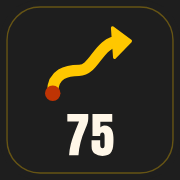
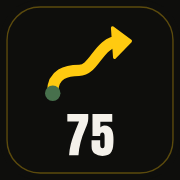
Match the coach site colors: ink, volt yellow, bone, forest green (#15)
* Color option: coach-match palette from coachsalimheyaime.com (preview only, not for merge)

* Coach-match: forest green coaching band

* Regenerate favicon and app icon PNGs in the coach-match palette

---------

Changed region(s): [[0.25, 0.4722, 0.3611, 0.5833]]

diff --git a/styles.css b/styles.css
@@ -1,11 +1,11 @@
 :root {
-  --yellow: #ffc700;
-  --charcoal: #1e1e1e;
-  --rust: #bf3404;
-  --cream: #fff7e8;
-  --paper: #fffdf8;
-  --muted: #5e584c;
-  --line: #e6dcc0;
+  --yellow: #FFCA10;
+  --charcoal: #0E0E0C;
+  --rust: #1C6924;
+  --cream: #F4F1EA;
+  --paper: #FBFAF6;
+  --muted: #4A4943;
+  --line: #DDD7C9;
   --max: 1100px;
 }
 
@@ -130,7 +130,7 @@ a {
   font-weight: 700;
   text-transform: uppercase;
   letter-spacing: 0.12em;
-  color: rgba(255, 253, 248, 0.75);
+  color: rgba(251, 250, 246, 0.75);
   margin: 0;
 }
 
@@ -166,7 +166,7 @@ a {
   text-transform: uppercase;
   letter-spacing: 0.1em;
   text-decoration: none;
-  color: rgba(255, 253, 248, 0.85);
+  color: rgba(251, 250, 246, 0.85);
   padding: 0.45rem 0.5rem;
   border-radius: 8px;
 }
@@ -296,7 +296,7 @@ a.hub-tile:focus-visible {
 
 .hub-tile-desc {
   font-size: 0.9rem;
-  color: rgba(255, 253, 248, 0.78);
+  color: rgba(251, 250, 246, 0.78);
   margin: 0;
   flex-grow: 1;
 }
@@ -428,7 +428,7 @@ section {
 }
 
 .store-teaser p {
-  color: rgba(255, 253, 248, 0.88);
+  color: rgba(251, 250, 246, 0.88);
   margin: 0 0 1.5rem;
 }
 
@@ -788,7 +788,7 @@ section {
 .program-card--featured {
   grid-column: 1 / -1;
   border-left: 5px solid var(--yellow);
-  box-shadow: 0 4px 14px rgba(30, 30, 30, 0.06);
+  box-shadow: 0 4px 14px rgba(14, 14, 12, 0.06);
   gap: 0;
   height: auto;
 }
@@ -994,7 +994,7 @@ section {
 
 .program-card.featured {
   border-color: var(--charcoal);
-  box-shadow: 0 12px 32px rgba(30, 30, 30, 0.12);
+  box-shadow: 0 12px 32px rgba(14, 14, 12, 0.12);
 }
 
 .program-card h3 {
@@ -1103,7 +1103,7 @@ section {
 
 .steps p {
   margin: 0;
-  color: rgba(255, 253, 248, 0.85);
+  color: rgba(251, 250, 246, 0.85);
 }
 
 .about {
@@ -1192,7 +1192,7 @@ section {
 
 .footer {
   background: var(--charcoal);
-  color: #ddd;
+  color: #DDD7C9;
   text-align: center;
   font-size: 0.9rem;
   padding: 1.75rem 0;
@@ -1529,13 +1529,13 @@ section {
 /* ==========================================================================
    2026-11 refresh: shared header and footer for every page, plus the
    homepage hub layout (body.home-v2, hx-* classes). Brand base: Anton + Lato,
-   yellow #ffc700, charcoal #1e1e1e, rust #bf3404, cream #fff7e8.
+   Palette option m (Coach Match): accent #FFCA10, dark #0E0E0C, accent-2 #1C6924, cream #F4F1EA.
    ========================================================================== */
 
 :root {
-  --ink: #141414;
-  --night: #1b1b1b;
-  --yellow-soft: #ffe27a;
+  --ink: #0E0E0C;
+  --night: #181816;
+  --yellow-soft: #FFD740;
 }
 
 /* Shared header: sticky, wraps nav under the brand on small screens */
@@ -1544,7 +1544,7 @@ section {
   top: 0;
   z-index: 50;
   padding: 0.7rem 0;
-  background: rgba(20, 20, 20, 0.97);
+  background: rgba(14, 14, 12, 0.97);
 }
 
 .site-header .wrap {
@@ -1648,8 +1648,8 @@ section {
   position: relative;
   overflow: hidden;
   background:
-    radial-gradient(circle at 85% 20%, rgba(255, 199, 0, 0.16), transparent 45%),
-    radial-gradient(circle at 10% 100%, rgba(191, 52, 4, 0.28), transparent 40%),
+    radial-gradient(circle at 85% 20%, rgba(255, 202, 16, 0.16), transparent 45%),
+    radial-gradient(circle at 10% 100%, rgba(28, 105, 36, 0.28), transparent 40%),
     var(--ink);
   color: var(--paper);
   padding: 3.5rem 0 2.5rem !important;
@@ -1662,7 +1662,7 @@ section {
   bottom: -8rem;
   width: 26rem;
   height: 26rem;
-  border: 44px solid rgba(255, 199, 0, 0.08);
+  border: 44px solid rgba(255, 202, 16, 0.08);
   border-radius: 50%;
   pointer-events: none;
 }
@@ -1708,12 +1708,12 @@ section {
   line-height: 1.55;
   max-width: 38rem;
   margin: 0 0 0.85rem;
-  color: rgba(255, 253, 248, 0.95);
+  color: rgba(251, 250, 246, 0.95);
 }
 
 .hx-lede--sub {
   font-size: 1.02rem;
-  color: rgba(255, 253, 248, 0.78);
+  color: rgba(251, 250, 246, 0.78);
 }
 
 .hx-ctas {
@@ -1785,9 +1785,9 @@ section {
   flex-direction: column;
   gap: 0.15rem;
   padding: 1rem 1.1rem;
-  border: 2px solid rgba(255, 253, 248, 0.18);
+  border: 2px solid rgba(251, 250, 246, 0.18);
   border-radius: 16px;
-  background: rgba(255, 253, 248, 0.04);
+  background: rgba(251, 250, 246, 0.04);
   text-decoration: none;
   color: var(--paper);
   transition: border-color 0.15s, background 0.15s, transform 0.15s;
@@ -1796,7 +1796,7 @@ section {
 .hx-pillar:hover,
 .hx-pillar:focus-visible {
   border-color: var(--yellow);
-  background: rgba(255, 199, 0, 0.08);
+  background: rgba(255, 202, 16, 0.08);
   transform: translateY(-2px);
 }
 
@@ -1816,7 +1816,7 @@ section {
 
 .hx-pillar-desc {
   font-size: 0.88rem;
-  color: rgba(255, 253, 248, 0.75);
+  color: rgba(251, 250, 246, 0.75);
 }
 
 /* Yellow band */
@@ -1921,7 +1921,7 @@ section {
 }
 
 .hx-section--dark .hx-section-lede {
-  color: rgba(255, 253, 248, 0.78);
+  color: rgba(251, 250, 246, 0.78);
 }
 
 /* Cards */
@@ -2038,7 +2038,7 @@ section {
 
 .hx-card--dark .hx-card-note,
 .hx-card--dark .hx-card-desc {
-  color: rgba(255, 253, 248, 0.78);
+  color: rgba(251, 250, 246, 0.78);
 }
 
 .hx-card--dark .hx-card-price {
@@ -2074,14 +2074,14 @@ section {
 .hx-levels li {
   padding: 0.55rem 0.8rem;
   border-left: 4px solid var(--yellow);
-  background: rgba(255, 253, 248, 0.06);
+  background: rgba(251, 250, 246, 0.06);
   border-radius: 0 10px 10px 0;
 }
 
 .hx-levels span {
   display: block;
   font-size: 0.85rem;
-  color: rgba(255, 253, 248, 0.7);
+  color: rgba(251, 250, 246, 0.7);
 }
 
 .hx-card--wide .hx-card-wide-body {
@@ -2110,7 +2110,7 @@ section {
 .hx-card--night {
   background: var(--night);
   color: var(--paper);
-  border-color: rgba(255, 253, 248, 0.2);
+  border-color: rgba(251, 250, 246, 0.2);
   box-shadow: none;
 }
 
@@ -2121,7 +2121,7 @@ section {
 }
 
 .hx-card--night .hx-card-desc {
-  color: rgba(255, 253, 248, 0.75);
+  color: rgba(251, 250, 246, 0.75);
 }
 
 .hx-card--night .hx-card-price {
@@ -2135,18 +2135,18 @@ section {
 
 .hx-card--night .btn-checkout-pending {
   background: transparent;
-  color: rgba(255, 253, 248, 0.7);
-  border-color: rgba(255, 253, 248, 0.4);
+  color: rgba(251, 250, 246, 0.7);
+  border-color: rgba(251, 250, 246, 0.4);
 }
 
 .hx-card--night .checkout-pending-note {
-  color: rgba(255, 253, 248, 0.7);
+  color: rgba(251, 250, 246, 0.7);
 }
 
 .hx-refund {
   margin: 2rem 0 0;
   font-size: 0.9rem;
-  color: rgba(255, 253, 248, 0.75);
+  color: rgba(251, 250, 246, 0.75);
 }
 
 .hx-refund .text-link {
@@ -2168,7 +2168,7 @@ section {
   justify-self: center;
   padding: 2.25rem 2.5rem;
   background:
-    radial-gradient(circle at 30% 20%, rgba(255, 199, 0, 0.22), transparent 55%),
+    radial-gradient(circle at 30% 20%, rgba(255, 202, 16, 0.22), transparent 55%),
     var(--charcoal);
   border-radius: 26px;
 }
@@ -2400,7 +2400,7 @@ section {
 }
 
 .hx-footer-col a {
-  color: rgba(255, 253, 248, 0.85);
+  color: rgba(251, 250, 246, 0.85);
 }
 
 .hx-footer-col a:hover {
@@ -2418,7 +2418,7 @@ section {
 
 .hx-footer-fine {
   font-size: 0.82rem;
-  color: rgba(255, 253, 248, 0.65);
+  color: rgba(251, 250, 246, 0.65);
   margin-top: 1.5rem !important;
 }
 
@@ -2515,7 +2515,7 @@ section {
   margin: 0.9rem 0 0;
   font-size: 0.95rem;
   font-weight: 700;
-  color: rgba(255, 253, 248, 0.78);
+  color: rgba(251, 250, 246, 0.78);
 }
 
 .picks-group + .picks-group {
@@ -2644,4 +2644,30 @@ section {
 
 #coachs-picks {
   scroll-margin-top: 4.5rem;
+}
+
+.pick-tile-label,
+.hx-dot {
+  color: var(--charcoal);
+}
+
+/* Coach-match: coaching band uses the coach site's forest green, as its specialties band does. */
+.hx-coach {
+  background: var(--rust);
+  color: var(--paper);
+  border-top: 3px solid var(--yellow);
+}
+
+.hx-coach .hx-kicker--dark {
+  color: var(--paper);
+}
+
+.hx-coach .btn-dark {
+  background: var(--charcoal);
+  color: var(--yellow);
+  border-color: var(--charcoal);
+}
+
+.hx-coach .btn-dark:hover {
+  box-shadow: 0 6px 0 var(--yellow);
 }

diff --git a/index.html b/index.html
@@ -19,7 +19,7 @@
   <meta name="twitter:title" content="A Challenge to Move | Fitness &amp; Wellness Challenge Apps">
   <meta name="twitter:description" content="Move better, eat better and feel better with app-guided challenges from Coach Salim Heyaime. Start with 7 minutes a day and level up from there.">
   <meta name="twitter:image" content="https://achallengetomove.com/img/og-card.png">
-  <meta name="theme-color" content="#1E1E1E">
+  <meta name="theme-color" content="#0E0E0C">
   <script type="application/ld+json">
   {
     "@context": "https://schema.org",
